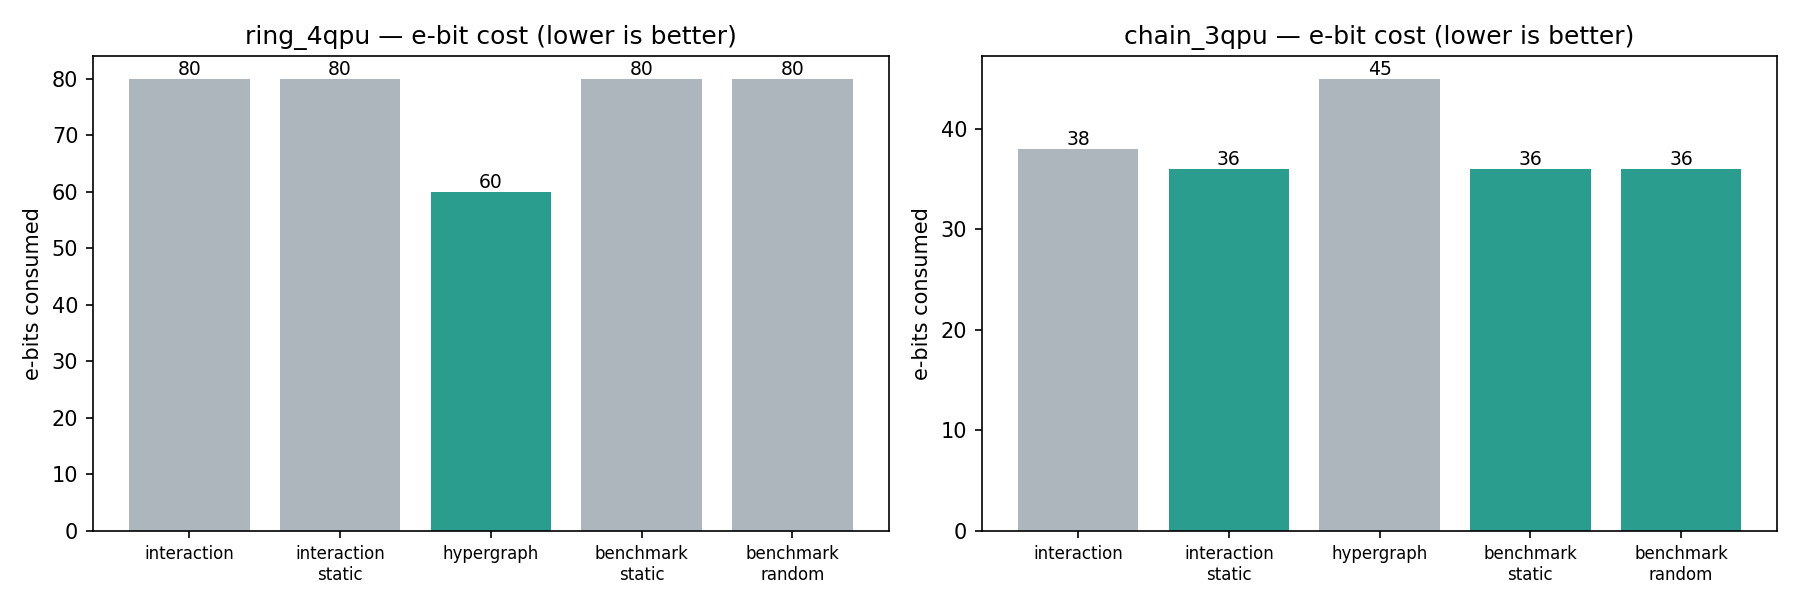
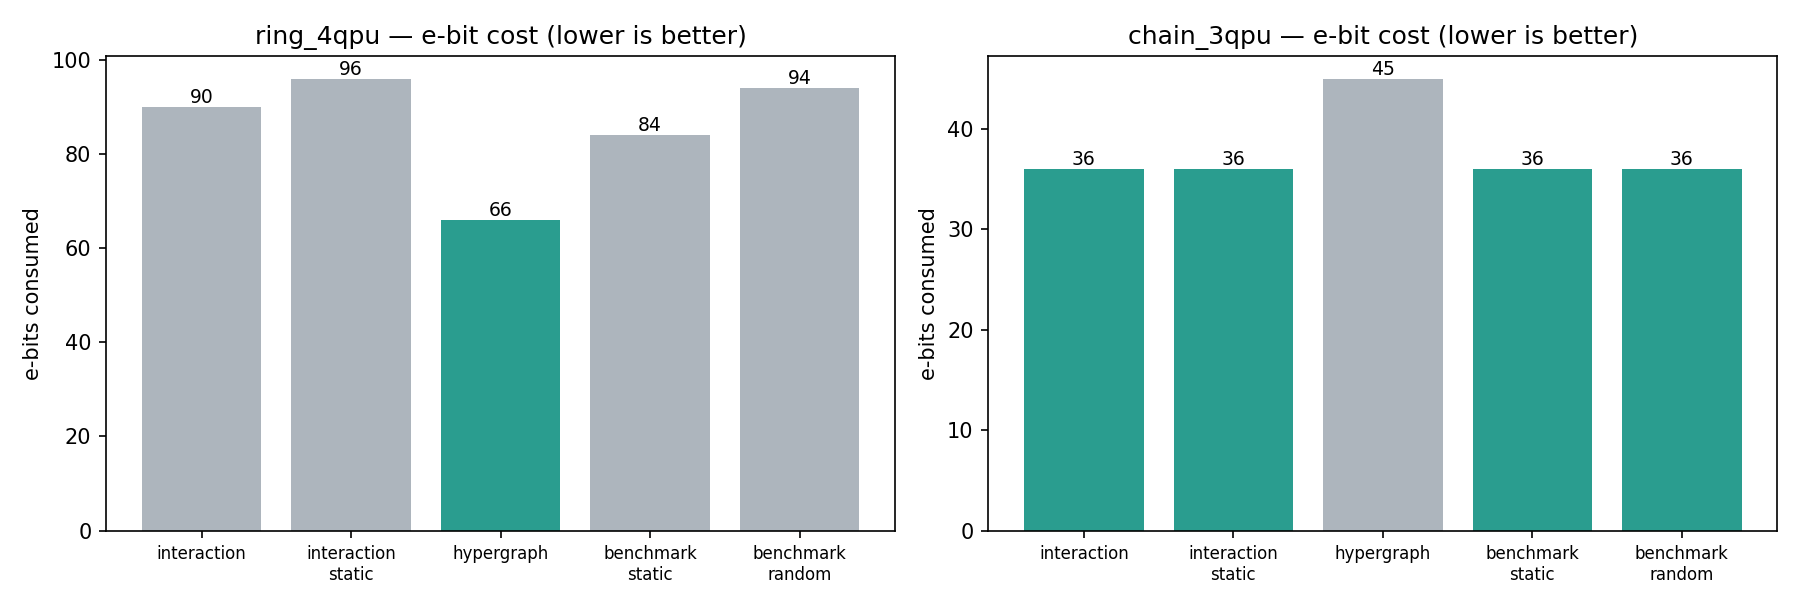
Report measured e-bit cost from Partitioner.cost
cost was a partition-time approximation until something touched
distributed_circuit, at which point extraction recorded the exact figure and
the same property started returning that instead. Constructing a Scheduler
was enough to flip it, so one compile could report 38 or 36 e-bits on the
chain, and 80 or 90 on the ring, purely by call order. For a library whose
purpose is comparing partitioners, that is a bad footgun.

cost now extracts the distributed circuit on access and reports what the
builder actually emits. Where extraction is impossible -- a network whose
computation qubits cannot reach any communication qubit -- it falls back to
the approximation and logs a warning, so the property stays total.

This surfaced a disagreement between the two cost models: for a routed swap
across non-adjacent QPUs the network estimate prices 6 e-bits while the
builder emits two adjacent remote swaps costing 4. The regression test now
asserts the measured value and records the discrepancy, which is tracked in
RELEASE_TODO.md.

Re-executes the demo notebooks against the corrected figures. The partitioner
comparison is unchanged in shape: hypergraph is still best on the ring (66
e-bits) and worst on the chain (45).

diff --git a/src/xdqc/partition/partitioner.py b/src/xdqc/partition/partitioner.py
@@ -247,7 +247,31 @@ class Partitioner:
 
     @property
     def cost(self) -> float | None:
-        """Return the latest entanglement cost, if available."""
+        """Return the exact entanglement cost, if available.
+
+        The true e-bit usage is only known once the distributed circuit has
+        been extracted, because that is where routing, link selection, and
+        state-teleportation swaps are actually resolved. This property
+        therefore extracts the distributed circuit on first access rather
+        than reporting the cheaper partition-time approximation, so the
+        reported cost does not depend on whether the caller happened to
+        touch the distributed circuit first.
+
+        If the distributed circuit cannot be extracted at all -- for example
+        on a network whose computation qubits cannot reach any communication
+        qubit -- there is no measured cost to report, so the partition-time
+        approximation is returned and a warning is logged.
+        """
+        if self._algorithm.schedule is not None:
+            try:
+                self._ensure_distributed_circuit()
+            except Exception as exc:
+                logger.warning(
+                    "Could not extract the distributed circuit (%s); "
+                    "reporting the partition-time cost approximation "
+                    "instead of measured e-bit usage.",
+                    exc,
+                )
         return self._algorithm.cost
 
     @property

diff --git a/tests/builder/test_builder.py b/tests/builder/test_builder.py
@@ -658,7 +658,13 @@ def test_cross_qpu_swap_routed_between_non_adjacent_qpus(
     # No direct link, so a single remote swap is impossible, but the routed
     # chain through QPU 1 is, and that is what the cost must reflect.
     assert network.supports_remote_swap(0, 2) is False
-    assert partitioner.cost == float(network.remote_swap_ebit_cost(0, 2))
+
+    # `cost` reports measured e-bit usage from the extracted circuit, which
+    # lowers this routed swap into two adjacent remote swaps at 2 e-bits
+    # each. Note the network's own estimate prices the same routed swap at
+    # 6, so the two disagree -- see RELEASE_TODO.md.
+    assert partitioner.cost == 4.0
+    assert float(network.remote_swap_ebit_cost(0, 2)) == 6.0
 
     # And the routed swap is actually buildable, not just priceable: the
     # single source swap lowers to more than one adjacent remote swap.
